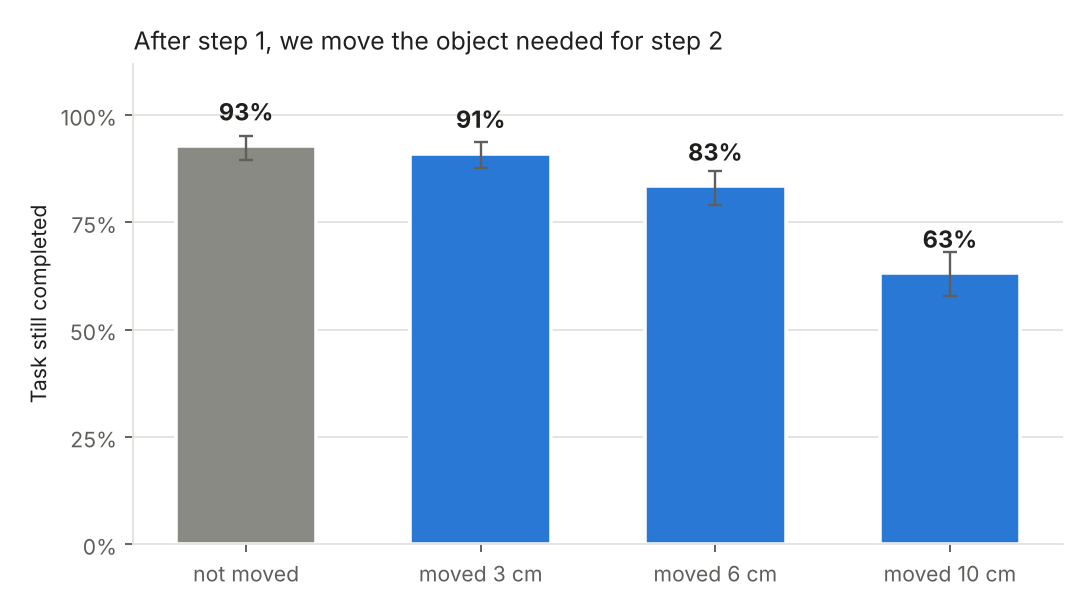
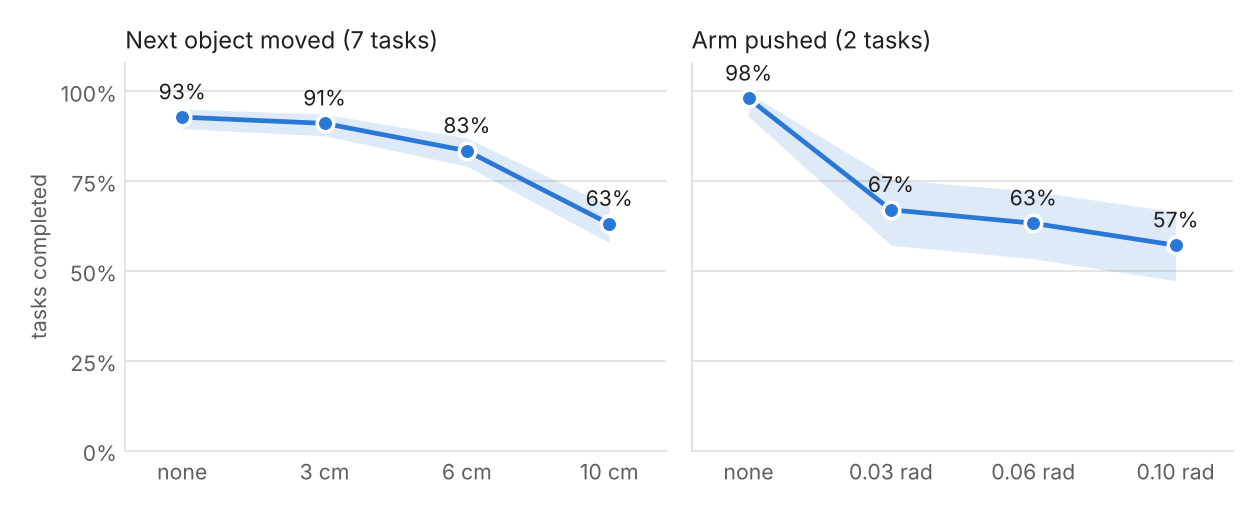
Simplify README and redraw figures

diff --git a/analysis/make_readme_figures.py b/analysis/make_readme_figures.py
@@ -1,5 +1,5 @@
 #!/usr/bin/env python
-"""Plain-language headline figures for the README (docs/fig*.png).
+"""README figures (docs/fig*.png).
 
 Run after analyze_stages.py, analyze_perturbation.py and part2_failure_monitor.py:
 
@@ -9,14 +9,15 @@ Run after analyze_stages.py, analyze_perturbation.py and part2_failure_monitor.p
 from __future__ import annotations
 
 import json
+import os
 from pathlib import Path
 
 import matplotlib.pyplot as plt
 import numpy as np
 import pandas as pd
 
-ROOT = Path(__file__).resolve().parents[1]
-DOCS = ROOT / "docs"
+ROOT = Path(os.environ.get("VLA_ROOT", Path(__file__).resolve().parents[1]))
+DOCS = Path(os.environ.get("VLA_DOCS", ROOT / "docs"))
 BLUE, ORANGE, ORANGE_LIGHT, GRAY = "#2a78d6", "#eb6834", "#f6b393", "#8a8a85"
 TEXT, TEXT2, GRID = "#1f1f1e", "#5f5e5a", "#e4e3df"
 TASK_NAMES = {
@@ -25,7 +26,7 @@ TASK_NAMES = {
     2: "stove on, moka pot on stove",
     3: "bowl → drawer, close drawer",
     4: "two mugs → two plates",
-    5: "book → caddy (1 step)",
+    5: "book → caddy",
     6: "mug → plate, pudding → right",
     7: "soup + cheese → basket",
     8: "two moka pots → stove",
@@ -36,12 +37,13 @@ TASK_NAMES = {
 def style(ax, grid_axis="x"):
     ax.spines[["top", "right"]].set_visible(False)
     ax.spines[["left", "bottom"]].set_color(GRID)
-    ax.tick_params(colors=TEXT2, labelsize=9)
+    ax.tick_params(colors=TEXT2, labelsize=9, length=0)
     getattr(ax, f"{grid_axis}axis").grid(True, color=GRID, linewidth=0.8)
     ax.set_axisbelow(True)
 
 
 def fig_where_failures():
+    """Failed episodes per task, split by whether step 1 had been completed."""
     rows = [json.loads(l) for l in (ROOT / "outputs/baseline_seed1000/summary.jsonl").read_text().splitlines()]
     df = pd.DataFrame(rows)
 
@@ -50,29 +52,22 @@ def fig_where_failures():
         return any(f is not None and not i for f, i in zip(r["first_true_step"], init))
 
     df["reached"] = df.apply(reached, axis=1)
-    g = df.groupby("task_id").agg(n=("success", "size"), ok=("success", "sum"),
-                                  fail_after=("reached", lambda s: 0)).reset_index()
-    g["fail_after"] = [int(((df.task_id == t) & ~df.success & df.reached).sum()) for t in g.task_id]
-    g["fail_before"] = g["n"] - g["ok"] - g["fail_after"]
-    g = g.iloc[::-1]  # T0 at the top
+    f = df[~df.success]
+    g = pd.DataFrame({"after": f[f.reached].groupby("task_id").size(),
+                      "before": f[~f.reached].groupby("task_id").size()}).fillna(0).astype(int)
+    g["total"] = g.after + g.before
+    g = g.sort_values("total")
     y = np.arange(len(g))
-    fig, ax = plt.subplots(figsize=(8.2, 4.4), dpi=170)
-    left = np.zeros(len(g))
-    for col, color, lab in [("ok", BLUE, "completed the whole task"),
-                            ("fail_after", ORANGE, "failed AFTER finishing step 1"),
-                            ("fail_before", ORANGE_LIGHT, "failed before finishing step 1")]:
-        v = g[col].to_numpy() / g["n"].to_numpy() * 100
-        ax.barh(y, v, left=left, color=color, edgecolor="white", linewidth=1.5, height=0.62, label=lab)
-        left += v
-    for yi, (_, r) in zip(y, g.iterrows()):
-        ax.text(101, yi, f"{r.ok}/{r.n}", va="center", fontsize=8, color=TEXT2)
-    ax.set_yticks(y, [TASK_NAMES[t] for t in g.task_id], fontsize=9, color=TEXT)
-    ax.set_xlim(0, 109)
-    ax.set_xticks([0, 25, 50, 75, 100], ["0%", "25%", "50%", "75%", "100%"])
-    ax.set_title("27 of 30 failures happen after the robot has already finished step 1",
-                 fontsize=10.5, color=TEXT, loc="left", pad=22)
-    ax.legend(frameon=False, fontsize=8, ncol=3, loc="lower left", bbox_to_anchor=(0, 0.995),
-              labelcolor=TEXT2, handlelength=1.2)
+    fig, ax = plt.subplots(figsize=(6.6, 2.9), dpi=170)
+    ax.barh(y, g.after, color=ORANGE, height=0.6, edgecolor="white", linewidth=1.5, label="after step 1 was done")
+    ax.barh(y, g.before, left=g.after, color=ORANGE_LIGHT, height=0.6, edgecolor="white", linewidth=1.5,
+            label="before step 1")
+    for yi, t in zip(y, g.total):
+        ax.text(t + 0.25, yi, str(t), va="center", fontsize=9, color=TEXT)
+    ax.set_yticks(y, [TASK_NAMES[t] for t in g.index], fontsize=9, color=TEXT)
+    ax.set_xlabel("failed episodes (of 50 per task)", fontsize=9, color=TEXT2)
+    ax.set_xlim(0, g.total.max() + 1.5)
+    ax.legend(frameon=False, fontsize=8.5, loc="lower right", labelcolor=TEXT2, handlelength=1.2)
     style(ax)
     fig.tight_layout()
     fig.savefig(DOCS / "fig1_where_failures.png")
@@ -80,60 +75,58 @@ def fig_where_failures():
 
 
 def fig_disturbance():
+    """Success rate vs disturbance size, object shift and arm push side by side."""
     d = pd.read_csv(ROOT / "reports/perturbation/recovery.csv")
-    d = d[d.kind == "object_shift_xy"].sort_values("magnitude")
-    x = np.arange(len(d))
-    y = d.rate.to_numpy() * 100
-    err = np.vstack([y - d.ci_lo * 100, d.ci_hi * 100 - y])
-    fig, ax = plt.subplots(figsize=(6.4, 3.6), dpi=170)
-    colors = [GRAY] + [BLUE] * (len(d) - 1)
-    ax.bar(x, y, color=colors, width=0.6, edgecolor="white", linewidth=1.5)
-    ax.errorbar(x, y, yerr=err, fmt="none", ecolor=TEXT2, elinewidth=1, capsize=3)
-    for xi, yi in zip(x, y):
-        ax.text(xi, yi + 6, f"{yi:.0f}%", ha="center", fontsize=10, color=TEXT, fontweight="bold")
-    labels = ["not moved"] + [f"moved {m*100:.0f} cm" for m in d.magnitude[1:]]
-    ax.set_xticks(x, labels, fontsize=9, color=TEXT)
-    ax.set_ylim(0, 112)
-    ax.set_yticks([0, 25, 50, 75, 100], ["0%", "25%", "50%", "75%", "100%"])
-    ax.set_ylabel("Task still completed", fontsize=9, color=TEXT)
-    ax.set_title("After step 1, we move the object needed for step 2", fontsize=10.5, color=TEXT, loc="left")
-    style(ax, "y")
+    panels = [("object_shift_xy", "Next object moved (7 tasks)", lambda m: "none" if m == 0 else f"{m * 100:.0f} cm"),
+              ("joint_noise", "Arm pushed (2 tasks)", lambda m: "none" if m == 0 else f"{m:.2f} rad")]
+    fig, axes = plt.subplots(1, 2, figsize=(7.4, 3.0), dpi=170, sharey=True)
+    for ax, (kind, title, fmt) in zip(axes, panels):
+        s = d[d.kind == kind].sort_values("magnitude")
+        x = np.arange(len(s))
+        yv = s.rate.to_numpy() * 100
+        ax.fill_between(x, s.ci_lo * 100, s.ci_hi * 100, color=BLUE, alpha=0.15, linewidth=0)
+        ax.plot(x, yv, color=BLUE, linewidth=2, marker="o", markersize=7, markeredgecolor="white",
+                markeredgewidth=1.5)
+        for xi, yi in zip(x, yv):
+            ax.text(xi, yi + 5, f"{yi:.0f}%", ha="center", fontsize=9, color=TEXT)
+        ax.set_xticks(x, [fmt(m) for m in s.magnitude], fontsize=9, color=TEXT)
+        ax.set_xlim(-0.4, len(s) - 0.6)
+        ax.set_title(title, fontsize=10, color=TEXT, loc="left")
+        style(ax, "y")
+    axes[0].set_ylim(0, 108)
+    axes[0].set_yticks([0, 25, 50, 75, 100], ["0%", "25%", "50%", "75%", "100%"])
+    axes[0].set_ylabel("tasks completed", fontsize=9, color=TEXT2)
     fig.tight_layout()
     fig.savefig(DOCS / "fig2_disturbance.png")
     plt.close(fig)
 
 
 def fig_early_warning():
+    """AUROC 2 s after the disturbance: world model vs stall rule."""
     d = pd.read_csv(ROOT / "reports/part2/auroc.csv")
     d = d[d.decision_steps_after == 40]
-    groups = [("object_shift_xy", "Object moved\n(7 tasks)"), ("joint_noise", "Robot arm bumped\n(2 tasks)")]
-    preds = [("WM residual (MLP)", "World model", BLUE),
-             ("Stall heuristic", "Rule: \"robot stopped moving\"", ORANGE),
-             ("Magnitude (sim oracle)", "Knowing how big the disturbance was*", GRAY)]
-    fig, ax = plt.subplots(figsize=(7.2, 3.8), dpi=170)
-    w = 0.26
+    groups = [("object_shift_xy", "next object moved"), ("joint_noise", "arm pushed")]
+    preds = [("WM residual (MLP)", "world model", BLUE), ("Stall heuristic", "\"robot stopped moving\" rule", ORANGE)]
+    fig, ax = plt.subplots(figsize=(6.2, 2.5), dpi=170)
+    y = np.arange(len(groups))[::-1]
     for j, (key, lab, color) in enumerate(preds):
-        for i, (kind, _) in enumerate(groups):
+        for yi, (kind, _) in zip(y, groups):
             r = d[(d.kind == kind) & (d.predictor == key)].iloc[0]
-            xi = i + (j - 1) * w
-            ax.errorbar(xi, r.auroc, yerr=[[r.auroc - r.ci_lo], [r.ci_hi - r.auroc]], fmt="none",
-                        ecolor=color, elinewidth=2, capsize=0)
-            ax.plot(xi, r.auroc, "o", color=color, markersize=11, markeredgecolor="white", markeredgewidth=2,
-                    label=lab if i == 0 else None)
-            ax.text(xi + 0.045, r.auroc, f"{r.auroc:.2f}", ha="left", va="center", fontsize=9, color=TEXT)
-    ax.axhline(0.5, color=TEXT2, linewidth=1, linestyle=(0, (3, 3)))
-    ax.text(-0.45, 0.507, "coin flip", fontsize=8, color=TEXT2, ha="left", va="bottom")
-    ax.set_xticks(range(len(groups)), [g[1] for g in groups], fontsize=9, color=TEXT)
-    ax.set_xlim(-0.5, 1.6)
-    ax.set_ylim(0.4, 1.0)
-    ax.set_ylabel("How well it predicts failure\n(AUROC: 0.5 = guessing, 1 = perfect)", fontsize=8.5, color=TEXT)
-    ax.set_title("2 seconds after a disturbance: who can tell the robot will fail?", fontsize=10.5,
-                 color=TEXT, loc="left", pad=28)
-    ax.legend(frameon=False, fontsize=8, ncol=3, loc="lower left", bbox_to_anchor=(0, 0.99), labelcolor=TEXT2,
-              handlelength=1.2)
-    style(ax, "y")
-    fig.text(0.01, 0.01, "* only known in simulation", fontsize=7.5, color=TEXT2)
-    fig.tight_layout(rect=(0, 0.03, 1, 1))
+            yy = yi + (0.14 if j == 0 else -0.14)
+            ax.plot([r.ci_lo, r.ci_hi], [yy, yy], color=color, linewidth=2.5, solid_capstyle="round", alpha=0.45)
+            ax.plot(r.auroc, yy, "o", color=color, markersize=9, markeredgecolor="white", markeredgewidth=1.5,
+                    label=lab if yi == y[0] else None)
+            ax.text(r.ci_hi + 0.012, yy, f"{r.auroc:.2f}", va="center", fontsize=9, color=TEXT)
+    ax.axvline(0.5, color=TEXT2, linewidth=1, linestyle=(0, (3, 3)))
+    ax.text(0.505, y[-1] - 0.45, "guessing", fontsize=8, color=TEXT2, va="bottom")
+    ax.set_yticks(y, [g[1] for g in groups], fontsize=9.5, color=TEXT)
+    ax.set_xlim(0.45, 1.0)
+    ax.set_ylim(y[-1] - 0.5, y[0] + 0.5)
+    ax.set_xlabel("AUROC for predicting failure, 2 s after the disturbance (1 = perfect)", fontsize=9, color=TEXT2)
+    ax.legend(frameon=False, fontsize=8.5, loc="lower left", bbox_to_anchor=(0, 1.0), ncol=2, labelcolor=TEXT2,
+              handlelength=1.0)
+    style(ax)
+    fig.tight_layout()
     fig.savefig(DOCS / "fig3_early_warning.png")
     plt.close(fig)
 

diff --git a/README.md b/README.md
@@ -1,60 +1,47 @@
 # vla-long-horizon
 
-Where does a vision-language-action (VLA) policy fail on multi-step tasks, and can a small world model notice it early?
+Where does a VLA policy fail on multi-step tasks, and can a small world model notice it early?
 
-I evaluated π0.5 (`lerobot/pi05_libero_finetuned`) on the 10 long-horizon tasks of LIBERO-10 in simulation. The model gets camera images and an instruction such as "put both moka pots on the stove" and outputs arm actions. I added logging so that every sub-goal of a task is checked at every step, not just the final success.
+I ran π0.5 (`lerobot/pi05_libero_finetuned`) on the 10 tasks of LIBERO-10 (50 episodes each) and logged which sub-goals were satisfied at every step, not only the final success.
 
-<p align="center">
-  <img src="docs/t8_success_vs_failure.gif" width="560" alt="Left: the robot puts both moka pots on the stove. Right: it places the first pot, then stays next to the second pot without grasping it until time runs out.">
-</p>
-<p align="center"><sub>Same task, 2× speed. Right: the first pot is placed, then the arm stays next to the second pot until time runs out.</sub></p>
+## Failures come after step 1
 
-## Results
+470 of 500 episodes succeed. 27 of the 30 failures happen after the first sub-goal was already completed, almost half of them on the moka pot task.
 
-**Baseline.** 470 of 500 episodes succeed (94%). 27 of the 30 failures happen after the first sub-goal is already done. Most of them are on "put both moka pots on the stove": in all 13 failures there, the first pot is placed and the robot then gets stuck at the second one.
+![Failed episodes per task](docs/fig1_where_failures.png)
 
-![Where failures happen](docs/fig1_where_failures.png)
-
-What the failures look like (moka pot task unless noted). The number is how many of the 30 baseline failures show this pattern; one failure can show more than one.
+What these failures look like (moka pot task unless noted; number = failures with this pattern, a failure can have several):
 
 | | | |
 |:---:|:---:|:---:|
-| <img src="docs/behaviors/success.gif" width="224"><br>Success, for comparison | <img src="docs/behaviors/stall.gif" width="224"><br>Stops moving after step 1 (16) | <img src="docs/behaviors/carried_not_placed.gif" width="224"><br>Lifts the 2nd pot, never places it (6) |
-| <img src="docs/behaviors/repeated_grasp.gif" width="224"><br>Grasps again and again (5) | <img src="docs/behaviors/regression.gif" width="224"><br>Undoes step 1 (4) | <img src="docs/behaviors/no_subgoal.gif" width="224"><br>Never completes step 1 (3, basket task) |
+| <img src="docs/behaviors/success.gif" width="224"><br>success, for comparison | <img src="docs/behaviors/stall.gif" width="224"><br>stops moving after step 1 (16) | <img src="docs/behaviors/carried_not_placed.gif" width="224"><br>lifts the 2nd pot, never places it (6) |
+| <img src="docs/behaviors/repeated_grasp.gif" width="224"><br>grasps again and again (5) | <img src="docs/behaviors/regression.gif" width="224"><br>undoes step 1 (4) | <img src="docs/behaviors/no_subgoal.gif" width="224"><br>never completes step 1 (3, basket task) |
 
-**Disturbances.** I moved the object needed for the next step, or pushed the arm, right after the first sub-goal was reached. Small changes (3 cm) don't matter. Moving the object by 10 cm drops success from 93% to 63%. Pushing the arm while it closes a drawer or microwave door drops it from 98% to 57–67%.
+## Disturbances after step 1
 
-![Disturbance](docs/fig2_disturbance.png)
+Right after the first sub-goal, I either moved the object needed for the next step or added noise to the arm joints. Moving the object by 10 cm drops success from 93% to 63%. Even the smallest arm push drops it from 98% to 67%.
 
-Same disturbance, different outcome. Top: the tomato sauce is moved 10 cm after the soup is in the basket. Bottom: the arm is pushed after the mug is in the microwave; in the failed run it never comes back to close the door. The red frame marks the disturbance.
+![Success vs disturbance size](docs/fig2_disturbance.png)
 
-| Recovers | Fails |
-|:---:|:---:|
-| <img src="docs/behaviors/object_shift_recovered.gif" width="224"> | <img src="docs/behaviors/object_shift_failed.gif" width="224"> |
-| <img src="docs/behaviors/arm_push_recovered.gif" width="224"> | <img src="docs/behaviors/arm_push_failed.gif" width="224"> |
+| | recovers | fails |
+|---|:---:|:---:|
+| tomato sauce moved 10 cm | <img src="docs/behaviors/object_shift_recovered.gif" width="224"> | <img src="docs/behaviors/object_shift_failed.gif" width="224"> |
+| arm pushed after the mug is in the microwave | <img src="docs/behaviors/arm_push_recovered.gif" width="224"> | <img src="docs/behaviors/arm_push_failed.gif" width="224"> |
 
-**Early warning.** I trained a small dynamics model (MLP) on successful runs only. It predicts the next state from the current state and the next actions. When the prediction error gets large, something is going wrong. Two seconds after a disturbance it separates failures from successes with AUROC 0.74 (object moved) and 0.88 (arm pushed). A simple "the robot stopped moving" rule gets 0.62 and 0.80.
+## Early warning with a world model
 
-![Early warning](docs/fig3_early_warning.png)
+An MLP trained on successful runs only predicts the next state from the current state and the next 10 actions. A large prediction error means the episode is going off track. Two seconds after the disturbance this predicts failure better than a "robot stopped moving" rule:
 
-It does not work everywhere. On the moka pot task it is close to chance (AUROC ≈ 0.6), and on the few natural failures without any disturbance (11 in the held-out runs) the result is unclear (AUROC 0.56, confidence interval 0.40 to 0.73).
+![AUROC world model vs stall rule](docs/fig3_early_warning.png)
+
+On the moka pot task alone it is close to guessing (AUROC 0.61), and for the 11 failures without any disturbance in the held-out runs the result is inconclusive (0.56, CI 0.40 to 0.73).
 
 ## Notes
 
-- My first evaluation of the unperturbed case reported AUROC 0.70. That number was wrong: some of the test episodes were also in the training set. After restricting the test set to unseen initial states, it dropped to 0.56.
-- Teleporting objects in MuJoCo sometimes makes the physics explode. 14 of about 1,340 perturbed episodes had an object jump more than 15 cm in one step, and I excluded them. My first filter also caught objects that were simply falling into a basket, so it now only looks at jumps after the perturbation.
-- The GIFs are not new runs. They replay the logged actions from the same initial state (`scripts/render_episodes.py`). Eight of the ten replays match the log exactly. In the other two, contact physics drifts slightly, so I only kept replays where the gripper stays within 1 cm of the log and the outcome is the same; the deviations are in `docs/behaviors/episodes.json`.
-- The world model uses the exact object positions from the simulator. A real robot would have to estimate them from the cameras.
+- A first version of the unperturbed evaluation gave AUROC 0.70 because some test episodes were also in the training set. Restricting the test set to unseen initial states gave 0.56.
+- 14 of about 1,340 perturbed episodes were excluded because the moved object jumped more than 15 cm in one simulation step.
+- The GIFs replay the logged actions; they are not new runs. Eight match the log exactly, two drift by up to 9 mm with the same outcome (`docs/behaviors/episodes.json`).
+- The world model uses exact object positions from the simulator, which a real robot would not have.
+- One model, one seed, simulation only. I have not yet tested acting on the warning.
 
-## Limitations
-
-- Simulation only, one model, one random seed.
-- The monitor only detects problems. I have not tested acting on the warning, for example by retrying the current step.
-
-Next things I want to try: a world model on image features instead of simulator state, and actually retrying or re-planning when the warning fires to see how much success comes back.
-
-## More
-
-Method, all numbers with confidence intervals, sanity checks and how to reproduce: [docs/TECHNICAL.md](docs/TECHNICAL.md).
-
-Built on [LeRobot](https://github.com/huggingface/lerobot) and [LIBERO](https://github.com/Lifelong-Robot-Learning/LIBERO).
+Method, all numbers with confidence intervals and how to reproduce: [docs/TECHNICAL.md](docs/TECHNICAL.md). Built on [LeRobot](https://github.com/huggingface/lerobot) and [LIBERO](https://github.com/Lifelong-Robot-Learning/LIBERO).
